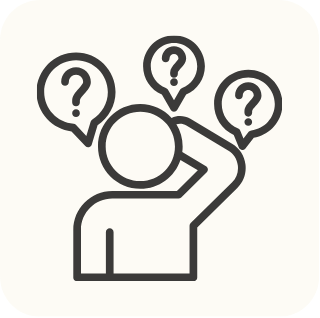
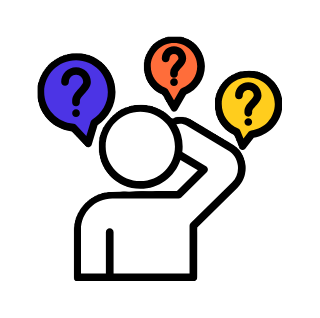
updated stop and check

Changed region(s): [[0.0938, 0.1132, 0.9062, 0.9057]]

diff --git a/src/components/StopAndCheck.vue b/src/components/StopAndCheck.vue
@@ -58,7 +58,6 @@ defineExpose({ pressed });
   position: relative;
   grid-column: 1 / -1;
   margin-top: 15px;
-  margin-right: 20%;
   background-color: var(--soft-green);
   border-radius: 16px;
   padding: 10px 15px;
@@ -98,6 +97,9 @@ defineExpose({ pressed });
   color: var(--text);
   font-weight: 600;
   grid-column: 1 / -1;
+
+  --background-active: var(--mint);
+  --color-active: var(--text);
 }
 
 .stop-and-check-button[hidden] {
@@ -133,12 +135,7 @@ defineExpose({ pressed });
 }
 
 .stop-and-check img {
-  position: absolute;
   align-self: center;
-  right: 0;
-  top: 0;
-  max-width: 100%;
-  max-height: 100%;
-  opacity: 0.2;
+  width: clamp(150px, 20vw, 200px);
 }
 </style>
